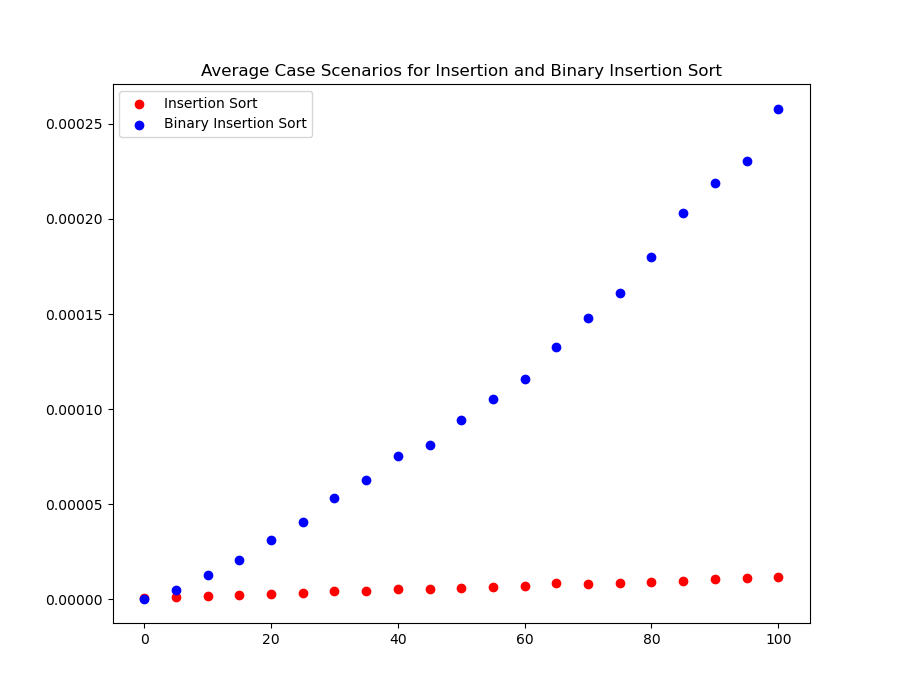
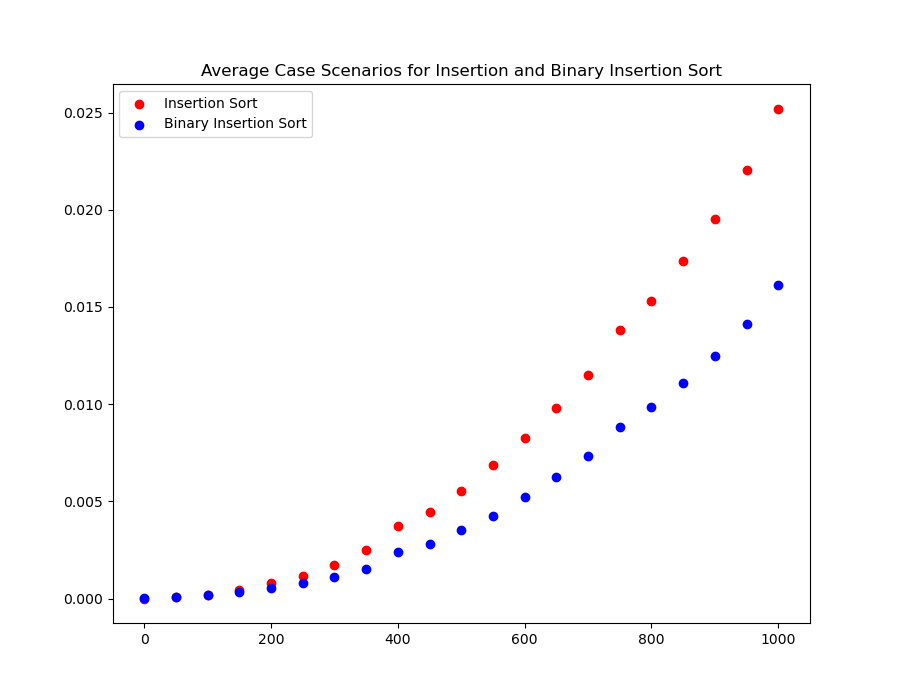
Fixed timing code

diff --git a/ex5.py b/ex5.py
@@ -12,53 +12,56 @@ def insertion_sort(arr):
         arr[j + 1] = key
 
 def binary_search(arr, val, start, end):
-    if start == end:
-        if arr[start] > val:
-            return start
+    while start <= end:
+        mid = (start + end) // 2
+        if arr[mid] < val:
+            start = mid + 1
+        elif arr[mid] > val:
+            end = mid - 1
         else:
-            return start+1
-    
-    if start > end:
-        return start
-    
-    mid = (start + end) // 2
-    if arr[mid] < val:
-        return binary_search(arr, val, mid+1, end)
-    elif arr[mid] > val:
-        return binary_search(arr, val, start, mid-1)
-    else:
-        return mid
+            return mid
+    return start
 
 def binary_insertion_sort(arr):
     for i in range(1, len(arr)):
         val = arr[i]
         j = binary_search(arr, val, 0, i-1)
-        arr = arr[:j] + [val] + arr[j:i] + arr[i+1:]
+        for k in range(i, j, -1):
+            arr[k] = arr[k - 1]
+        arr[j] = val
     return arr
 
-list_lengths = [x for x in range(0, 105, 5)]
-insertion_times = []
-binary_insertion_times = []
+list_lengths = [x for x in range(0, 1050, 50)]
+insertion_avg = []
+binary_insertion_avg = []
 
 for list_length in list_lengths:
     numbers = [x for x in range(list_length)]
-    #n = len(numbers)
+    insertion_times = []
+    binary_insertion_times = []
 
-    random.shuffle(numbers)
+    for i in range(100):
+        random.shuffle(numbers)
+        numbers_copy = numbers[:]
 
-    insertion_tm = timeit.timeit(lambda: insertion_sort(numbers), number=100)
-    insertion_times.append(insertion_tm / 100)
-    binary_insertion_tm = timeit.timeit(lambda: binary_insertion_sort(numbers), number=100)
-    binary_insertion_times.append(binary_insertion_tm / 100)
+        insertion_tm = timeit.timeit(lambda: insertion_sort(numbers), number=1)
+        insertion_times.append(insertion_tm)
+        binary_insertion_tm = timeit.timeit(lambda: binary_insertion_sort(numbers_copy), number=1)
+        binary_insertion_times.append(binary_insertion_tm)
+
+    insertion_avg_tm = sum(insertion_times) / len(insertion_times)
+    insertion_avg.append(insertion_avg_tm)
+    binary_avg_tm = sum(binary_insertion_times) / len(binary_insertion_times)
+    binary_insertion_avg.append(binary_avg_tm)
 
 plt.figure(figsize=(9, 7))
-plt.scatter(range(0, 105, 5), insertion_times, color='r', label="Insertion Sort")
-plt.scatter(range(0, 105, 5), binary_insertion_times, color='b', label="Binary Insertion Sort")
+plt.scatter(range(0, 1050, 50), insertion_avg, color='r', label="Insertion Sort")
+plt.scatter(range(0, 1050, 50), binary_insertion_avg, color='b', label="Binary Insertion Sort")
 plt.title("Average Case Scenarios for Insertion and Binary Insertion Sort")
 plt.legend()
 plt.savefig("ex5.png")
 
 """
 Question 4:
-Binary insertion sort is faster than traditional insertion sort. This is because traditional insertion sort uses linear search to find the insertion position for each element, wherease binary insertion sort uses binary search to find the insertion position for each element. The binary search reduces the complexity of the number of comparisons from O(N) to O(logN). Binary search can be applied since the search occurs in the sorted subarray so it is possible to use the divide and conquer methodology of binary search.
+Binary insertion sort is faster than traditional insertion sort. This is because traditional insertion sort uses linear search to find the insertion position for each element, wherease binary insertion sort uses binary search to find the insertion position for each element. The binary search reduces the complexity of the number of comparisons from O(N) to O(logN). Binary search can be applied since the search occurs in the sorted subarray so it is possible to use the divide and conquer methodology of binary search. While binary insertion sort is faster than traditional insertion sort, it is important to note that they both have an average case complexity of O(n^2). Binary insertion sort can be considered as an optimization of tradition insertion sort.
 """

diff --git a/ex2.py b/ex2.py
@@ -86,21 +86,21 @@ for list_length in list_lengths:
     #Best case for bubble sort: Array is already sorted
     #Best case for quick sort: Array is partitionined in half every time
     bubble_best_tm = timeit.timeit(lambda: bubble_sort(numbers), number=100)
-    bubble_best_times.append(bubble_best_tm / 10)
+    bubble_best_times.append(bubble_best_tm / 100)
     quicksort_best_tm = timeit.timeit(lambda: quicksort_best(numbers, 0, n-1), number=100)
-    quicksort_best_times.append(quicksort_best_tm / 10)
+    quicksort_best_times.append(quicksort_best_tm / 100)
 
     bubble_avg_tm = timeit.timeit(lambda: bubble_sort(numbers_shuffle), number=100)
-    bubble_avg_times.append(bubble_avg_tm / 10)
+    bubble_avg_times.append(bubble_avg_tm / 100)
     quicksort_avg_tm = timeit.timeit(lambda: quicksort_best(numbers_shuffle, 0, n-1), number=100)
-    quicksort_avg_times.append(quicksort_avg_tm / 10)
+    quicksort_avg_times.append(quicksort_avg_tm / 100)
 
     #Worst case for bubble sort: Array is sorted in reverse
     #Worst case for quick sort: Each partition results in a subarray of size 1
     bubble_worst_tm = timeit.timeit(lambda: bubble_sort(numbers_reverse), number=100)
-    bubble_worst_times.append(bubble_worst_tm / 10)
+    bubble_worst_times.append(bubble_worst_tm / 100)
     quicksort_worst_tm = timeit.timeit(lambda: quicksort(numbers_reverse, 0, n-1), number=100)
-    quicksort_worst_times.append(quicksort_worst_tm / 10)
+    quicksort_worst_times.append(quicksort_worst_tm / 100)
 
 plt.figure(figsize=(9, 7))
 plt.scatter(range(0, 105, 5), bubble_best_times, color='r', label="Bubble Sort")
